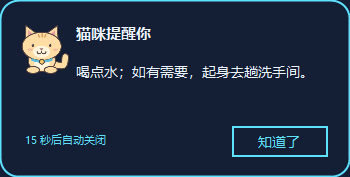
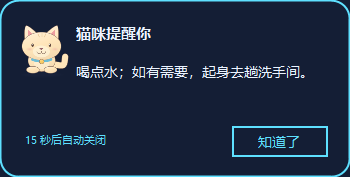
Refine desktop pets with soft shading, delicate outlines and material highlights

Changed region(s): [[0.0571, 0.1412, 0.2, 0.4237]]

diff --git a/src/DesktopPet.cs b/src/DesktopPet.cs
@@ -9,39 +9,67 @@ using System.Windows.Forms;
 public static class PetArt
 {
     public static readonly string[] Names = { "猫咪", "卡皮巴拉", "小兔子", "小机器人", "招财猫" };
+    private static Color Mix(Color color, Color target, float ratio)
+    {
+        return Color.FromArgb(color.A, (int)(color.R * (1 - ratio) + target.R * ratio), (int)(color.G * (1 - ratio) + target.G * ratio), (int)(color.B * (1 - ratio) + target.B * ratio));
+    }
     private static void Oval(Graphics g, Color fill, Pen outline, float x, float y, float w, float h)
     {
-        using (SolidBrush brush = new SolidBrush(fill)) g.FillEllipse(brush, x, y, w, h);
-        if (outline != null) g.DrawEllipse(outline, x, y, w, h);
+        if (outline == null) { using (SolidBrush brush = new SolidBrush(fill)) g.FillEllipse(brush, x, y, w, h); return; }
+        using (LinearGradientBrush material = new LinearGradientBrush(new RectangleF(x, y, w, h), fill, fill, 75f))
+        {
+            material.InterpolationColors = new ColorBlend { Colors = new[] { Mix(fill, Color.White, .4f), fill, Mix(fill, Color.FromArgb(130, 105, 88), .12f) }, Positions = new[] { 0f, .48f, 1f } };
+            g.FillEllipse(material, x, y, w, h);
+        }
+        g.DrawEllipse(outline, x, y, w, h);
+        using (Pen light = new Pen(Color.FromArgb(130, Color.White), 1.1f)) if (w > 20 && h > 18) g.DrawArc(light, x + 2, y + 2, w - 4, h - 4, 205, 105);
+    }
+    private static void Cheek(Graphics g, float x, float y)
+    {
+        using (GraphicsPath shape = new GraphicsPath())
+        {
+            shape.AddEllipse(x, y, 22, 12);
+            using (PathGradientBrush glow = new PathGradientBrush(shape))
+            { glow.CenterColor = Color.FromArgb(100, 238, 141, 158); glow.SurroundColors = new[] { Color.FromArgb(0, 238, 141, 158) }; g.FillPath(glow, shape); }
+        }
     }
     public static Bitmap Render(int kind, int theme, int frame, bool walking, bool speaking)
     {
         Bitmap bitmap = new Bitmap(200, 190, PixelFormat.Format32bppPArgb);
         using (Graphics g = Graphics.FromImage(bitmap))
-        using (Pen outline = new Pen(Color.FromArgb(83, 66, 65), 3) { LineJoin = LineJoin.Round, StartCap = LineCap.Round, EndCap = LineCap.Round })
+        using (Pen outline = new Pen(Color.FromArgb(220, 141, 112, 96), 1.7f) { LineJoin = LineJoin.Round, StartCap = LineCap.Round, EndCap = LineCap.Round })
         {
-            g.SmoothingMode = SmoothingMode.AntiAlias; g.Clear(Color.Transparent);
-            Color accent = theme == 0 ? Color.FromArgb(92, 187, 220) : Color.FromArgb(223, 138, 180);
+            g.SmoothingMode = SmoothingMode.AntiAlias; g.PixelOffsetMode = PixelOffsetMode.HighQuality; g.CompositingQuality = CompositingQuality.HighQuality; g.Clear(Color.Transparent);
+            Color accent = theme == 0 ? Color.FromArgb(108, 189, 213) : Color.FromArgb(226, 153, 187);
             bool blink = frame % 68 >= 63 && frame % 68 <= 65;
             float bob = (float)Math.Sin(frame * .14) * 2, step = walking ? (float)Math.Sin(frame * .75) * 4 : 0;
-            Oval(g, Color.FromArgb(28, 35, 38, 57), null, 47, 169, 110, 12);
+            Oval(g, Color.FromArgb(5, 72, 67, 86), null, 40, 168, 126, 17);
+            Oval(g, Color.FromArgb(8, 72, 67, 86), null, 46, 170, 114, 13);
+            Oval(g, Color.FromArgb(12, 72, 67, 86), null, 56, 172, 94, 8);
             g.TranslateTransform(0, bob);
             if (kind == 3)
             {
-                outline.Color = Color.FromArgb(35, 62, 92);
-                using (Pen antenna = new Pen(accent, 4)) g.DrawLine(antenna, 100, 24, 100, 43);
+                outline.Color = Color.FromArgb(220, 111, 151, 177);
+                using (Pen antenna = new Pen(accent, 3)) g.DrawLine(antenna, 100, 24, 100, 43);
                 Oval(g, accent, outline, 94, 17, 12, 12);
                 using (GraphicsPath body = Widget.Rounded(new Rectangle(64, 112, 73, 52), 15))
-                using (LinearGradientBrush metal = new LinearGradientBrush(new Rectangle(64, 112, 73, 52), Color.FromArgb(219, 238, 250), Color.FromArgb(132, 164, 198), 65f)) { g.FillPath(metal, body); g.DrawPath(outline, body); }
-                Oval(g, Color.FromArgb(130, 169, 199), outline, 58, 154 + step, 32, 17);
-                Oval(g, Color.FromArgb(130, 169, 199), outline, 111, 154 - step, 32, 17);
-                Oval(g, Color.FromArgb(176, 205, 224), outline, 44, 121 - step, 20, 34);
-                Oval(g, Color.FromArgb(176, 205, 224), outline, 138, 121 + step, 20, 34);
+                using (LinearGradientBrush metal = new LinearGradientBrush(new Rectangle(64, 112, 73, 52), Color.FromArgb(243, 252, 255), Color.FromArgb(166, 199, 222), 65f)) { g.FillPath(metal, body); g.DrawPath(outline, body); }
+                Oval(g, Color.FromArgb(167, 196, 215), outline, 58, 154 + step, 32, 17);
+                Oval(g, Color.FromArgb(167, 196, 215), outline, 111, 154 - step, 32, 17);
+                Oval(g, Color.FromArgb(195, 219, 232), outline, 44, 121 - step, 20, 34);
+                Oval(g, Color.FromArgb(195, 219, 232), outline, 138, 121 + step, 20, 34);
                 using (GraphicsPath head = Widget.Rounded(new Rectangle(42, 43, 116, 79), 23))
-                using (LinearGradientBrush metal = new LinearGradientBrush(new Rectangle(42, 43, 116, 79), Color.FromArgb(237, 249, 255), Color.FromArgb(163, 192, 218), 60f)) { g.FillPath(metal, head); g.DrawPath(outline, head); }
+                using (LinearGradientBrush metal = new LinearGradientBrush(new Rectangle(42, 43, 116, 79), Color.White, Color.FromArgb(185, 213, 232), 65f)) { g.FillPath(metal, head); g.DrawPath(outline, head); }
                 using (GraphicsPath screen = Widget.Rounded(new Rectangle(53, 56, 94, 52), 14))
-                using (SolidBrush dark = new SolidBrush(Color.FromArgb(20, 37, 61))) g.FillPath(dark, screen);
-                using (Pen light = new Pen(accent, 5) { StartCap = LineCap.Round, EndCap = LineCap.Round })
+                using (LinearGradientBrush dark = new LinearGradientBrush(new Rectangle(53, 56, 94, 52), Color.FromArgb(35, 63, 83), Color.FromArgb(16, 34, 56), 70f))
+                {
+                    g.FillPath(dark, screen);
+                    using (Pen rim = new Pen(Color.FromArgb(130, accent), 1)) g.DrawPath(rim, screen);
+                    GraphicsState glass = g.Save(); g.SetClip(screen);
+                    using (SolidBrush reflection = new SolidBrush(Color.FromArgb(22, Color.White))) g.FillEllipse(reflection, 48, 42, 107, 32);
+                    g.Restore(glass);
+                }
+                using (Pen light = new Pen(accent, 3.5f) { StartCap = LineCap.Round, EndCap = LineCap.Round })
                 {
                     if (blink) { g.DrawLine(light, 69, 78, 80, 78); g.DrawLine(light, 119, 78, 130, 78); }
                     else { g.DrawArc(light, 68, 69, 13, 17, 200, 140); g.DrawArc(light, 119, 69, 13, 17, 200, 140); }
@@ -49,36 +77,39 @@ public static class PetArt
                 }
                 Oval(g, accent, outline, 88, 128, 24, 24);
                 using (Pen power = new Pen(Color.White, 2)) { g.DrawArc(power, 94, 134, 12, 12, -50, 280); g.DrawLine(power, 100, 132, 100, 139); }
+                using (Pen seams = new Pen(Color.FromArgb(95, accent), 1)) { g.DrawLine(seams, 74, 157, 88, 157); g.DrawLine(seams, 113, 157, 127, 157); }
+                Oval(g, Color.FromArgb(220, Color.White), null, 77, 134, 3, 3); Oval(g, accent, null, 122, 134, 3, 3);
             }
             else
             {
-                Color fur = kind == 0 ? Color.FromArgb(255, 221, 164) : kind == 1 ? Color.FromArgb(192, 142, 98) : Color.FromArgb(255, 245, 238);
+                Color fur = kind == 0 ? Color.FromArgb(255, 229, 185) : kind == 1 ? Color.FromArgb(201, 163, 126) : Color.FromArgb(255, 249, 242);
                 Color pale = kind == 1 ? Color.FromArgb(222, 177, 127) : Color.FromArgb(255, 245, 220);
                 if (kind == 0 || kind == 4)
                 {
-                    using (Pen tail = new Pen(outline.Color, 22) { StartCap = LineCap.Round, EndCap = LineCap.Round })
-                    using (Pen inner = new Pen(fur, 16) { StartCap = LineCap.Round, EndCap = LineCap.Round })
+                    using (Pen tail = new Pen(outline.Color, 20) { StartCap = LineCap.Round, EndCap = LineCap.Round })
+                    using (Pen inner = new Pen(fur, 17) { StartCap = LineCap.Round, EndCap = LineCap.Round })
                     {
                         PointF[] points = { new PointF(137, 146), new PointF(164, 148), new PointF(170, 124 + (float)Math.Sin(frame * .18) * 5) };
                         g.DrawCurve(tail, points); g.DrawCurve(inner, points);
                     }
                 }
                 Oval(g, fur, outline, 61, 103, 80, 64);
-                Oval(g, pale, null, 78, 122, 46, 39);
+                Oval(g, Color.FromArgb(145, pale), null, 78, 122, 46, 39);
                 Oval(g, fur, outline, 56, 152 + step, 38, 20);
                 Oval(g, fur, outline, 108, 152 - step, 38, 20);
                 if (kind == 4)
                 {
                     GraphicsState paw = g.Save();
-                    g.TranslateTransform(158, 126); g.RotateTransform((float)Math.Sin(frame * .18) * 9); g.TranslateTransform(-158, -126);
+                    g.TranslateTransform(158, 126); g.RotateTransform((float)Math.Sin(frame * .12) * 8); g.TranslateTransform(-158, -126);
                     Oval(g, fur, outline, 143, 91, 28, 49); Oval(g, fur, outline, 147, 67, 31, 34);
-                    using (Pen fingers = new Pen(Color.FromArgb(211, 129, 127), 2)) { g.DrawLine(fingers, 156, 74, 156, 82); g.DrawLine(fingers, 163, 72, 163, 81); g.DrawLine(fingers, 170, 75, 170, 83); }
+                    using (Pen fingers = new Pen(Color.FromArgb(209, 151, 150), 1.1f)) { g.DrawLine(fingers, 156, 74, 156, 82); g.DrawLine(fingers, 163, 72, 163, 81); g.DrawLine(fingers, 170, 75, 170, 83); }
+                    Oval(g, Color.FromArgb(245, 201, 201), null, 156, 86, 10, 7);
                     g.Restore(paw);
                 }
                 if (kind == 2)
                 {
                     Oval(g, fur, outline, 58, 8, 29, 78); Oval(g, fur, outline, 111, 5, 29, 80);
-                    Oval(g, Color.FromArgb(249, 187, 200), null, 66, 19, 13, 51); Oval(g, Color.FromArgb(249, 187, 200), null, 119, 16, 13, 53);
+                    Oval(g, Color.FromArgb(230, 249, 201, 211), null, 66, 19, 13, 51); Oval(g, Color.FromArgb(230, 249, 201, 211), null, 119, 16, 13, 53);
                 }
                 else if (kind == 1)
                 {
@@ -87,40 +118,47 @@ public static class PetArt
                 }
                 else
                 {
-                    PointF[] left = { new PointF(52, 81), new PointF(54, 32), new PointF(89, 58) };
-                    PointF[] right = { new PointF(111, 58), new PointF(147, 32), new PointF(149, 82) };
-                    using (SolidBrush brush = new SolidBrush(fur)) { g.FillPolygon(brush, left); g.FillPolygon(brush, right); }
-                    g.DrawPolygon(outline, left); g.DrawPolygon(outline, right);
+                    using (GraphicsPath left = new GraphicsPath())
+                    using (GraphicsPath right = new GraphicsPath())
+                    using (LinearGradientBrush brush = new LinearGradientBrush(new Rectangle(50, 30, 100, 54), Mix(fur, Color.White, .4f), fur, 80f))
+                    {
+                        left.AddBezier(52, 81, 50, 64, 49, 39, 55, 33); left.AddBezier(55, 33, 60, 31, 82, 49, 89, 58); left.CloseFigure();
+                        right.AddBezier(111, 58, 121, 48, 141, 31, 147, 33); right.AddBezier(147, 33, 151, 39, 151, 64, 149, 82); right.CloseFigure();
+                        g.FillPath(brush, left); g.FillPath(brush, right); g.DrawPath(outline, left); g.DrawPath(outline, right);
+                    }
                     using (SolidBrush pink = new SolidBrush(Color.FromArgb(238, 158, 160)))
                     { g.FillPolygon(pink, new Point[] { new Point(60, 64), new Point(61, 45), new Point(77, 60) }); g.FillPolygon(pink, new Point[] { new Point(124, 60), new Point(140, 45), new Point(141, 65) }); }
                 }
+                Oval(g, Color.FromArgb(20, 111, 80, 60), null, 69, 116, 65, 20);
                 Oval(g, fur, outline, kind == 1 ? 45 : 43, 52, kind == 1 ? 113 : 115, 82);
                 if (kind == 1)
                 {
                     Oval(g, pale, outline, 62, 92, 93, 42);
-                    Oval(g, outline.Color, null, 111, 99, 16, 10);
-                    using (Pen nose = new Pen(outline.Color, 2)) { g.DrawLine(nose, 119, 110, 119, speaking ? 122 : 117); g.DrawArc(nose, 106, 112, 26, 10, 0, 180); }
+                    Oval(g, Color.FromArgb(119, 86, 71), null, 111, 99, 16, 9);
+                    using (Pen nose = new Pen(Color.FromArgb(164, 115, 86, 74), 1.3f)) { g.DrawLine(nose, 119, 109, 119, speaking ? 121 : 117); g.DrawArc(nose, 106, 112, 26, 10, 0, 180); }
                 }
                 else
                 {
-                    Oval(g, pale, null, 75, 91, 50, 35);
+                    Oval(g, Color.FromArgb(180, pale), null, 75, 91, 50, 35);
                     using (SolidBrush nose = new SolidBrush(Color.FromArgb(153, 101, 108))) g.FillPolygon(nose, new Point[] { new Point(94, 99), new Point(106, 99), new Point(100, 105) });
                     g.DrawArc(outline, 87, 102, 13, speaking ? 13 : 9, 0, 180); g.DrawArc(outline, 100, 102, 13, speaking ? 13 : 9, 0, 180);
                 }
                 int eyeY = kind == 1 ? 87 : 85;
                 if (blink) { g.DrawLine(outline, 69, eyeY + 3, 79, eyeY + 3); g.DrawLine(outline, 121, eyeY + 3, 131, eyeY + 3); }
-                else { Oval(g, outline.Color, null, 71, eyeY, 7, 10); Oval(g, outline.Color, null, 122, eyeY, 7, 10); Oval(g, Color.White, null, 72, eyeY, 2, 3); Oval(g, Color.White, null, 123, eyeY, 2, 3); }
-                Oval(g, Color.FromArgb(105, 241, 139, 154), null, 59, 99, 15, 7); Oval(g, Color.FromArgb(105, 241, 139, 154), null, 133, 99, 15, 7);
+                else { Oval(g, Color.FromArgb(102, 77, 65), null, 70.5f, eyeY, 7.5f, 10); Oval(g, Color.FromArgb(102, 77, 65), null, 121.5f, eyeY, 7.5f, 10); Oval(g, Color.White, null, 72, eyeY + 1, 2.3f, 3); Oval(g, Color.White, null, 123, eyeY + 1, 2.3f, 3); }
+                Cheek(g, 54, 96); Cheek(g, 129, 96);
                 using (Pen collar = new Pen(kind == 4 ? Color.FromArgb(218, 70, 78) : accent, 7)) g.DrawArc(collar, 67, 113, 68, 24, 10, 160);
                 if (kind == 4)
                 {
                     Oval(g, Color.FromArgb(255, 207, 81), outline, 80, 132, 43, 39);
-                    using (Pen gold = new Pen(Color.FromArgb(222, 153, 42), 2)) g.DrawEllipse(gold, 85, 136, 33, 30);
-                    using (Font fortune = new Font("Microsoft YaHei UI", 15, FontStyle.Bold)) TextRenderer.DrawText(g, "福", fortune, new Rectangle(80, 132, 43, 39), Color.FromArgb(154, 80, 34), TextFormatFlags.HorizontalCenter | TextFormatFlags.VerticalCenter);
+                    using (Pen gold = new Pen(Color.FromArgb(216, 166, 72), 1.1f)) g.DrawEllipse(gold, 85, 136, 33, 30);
+                    using (Font fortune = new Font("Microsoft YaHei UI", 13.5f, FontStyle.Bold))
+                    using (SolidBrush ink = new SolidBrush(Color.FromArgb(157, 108, 47)))
+                    using (StringFormat centered = new StringFormat { Alignment = StringAlignment.Center, LineAlignment = StringAlignment.Center }) g.DrawString("福", fortune, ink, new RectangleF(80, 132, 43, 39), centered);
                 }
                 else Oval(g, Color.FromArgb(250, 205, 101), outline, 94, 131, 14, 14);
                 if (kind == 1) { Oval(g, Color.FromArgb(255, 170, 75), outline, 83, 34, 35, 25); using (Pen leaf = new Pen(Color.FromArgb(91, 143, 85), 4)) g.DrawLine(leaf, 101, 33, 112, 27); }
-                if (kind == 0) using (Pen stripes = new Pen(Color.FromArgb(216, 158, 92), 4)) { g.DrawLine(stripes, 90, 57, 94, 67); g.DrawLine(stripes, 102, 55, 102, 67); g.DrawLine(stripes, 113, 57, 109, 67); }
+                if (kind == 0) using (Pen stripes = new Pen(Color.FromArgb(150, 220, 176, 115), 2.5f) { StartCap = LineCap.Round, EndCap = LineCap.Round }) { g.DrawLine(stripes, 90, 57, 94, 66); g.DrawLine(stripes, 102, 55, 102, 66); g.DrawLine(stripes, 113, 57, 109, 66); }
             }
         }
         return bitmap;

diff --git a/README.md b/README.md
@@ -12,7 +12,7 @@ Windows 桌宠与可配置详情面板，显示当天上班进度、剩余有效
 
 ## 功能
 
-- 猫咪、卡皮巴拉、小兔子、小机器人、招财猫五种桌宠，自带眨眼、呼吸起伏及可选散步动画，支持拖动和位置保存；招财猫还会举爪招手。
+- 猫咪、卡皮巴拉、小兔子、小机器人、招财猫五种桌宠，自带眨眼、呼吸起伏及可选散步动画，支持拖动和位置保存；招财猫还会举爪招手。角色采用细描边、渐变高光和轻阴影的柔和2.5D风格。
 - 点击桌宠展开或收起详情。五个详情组件可勾选显隐、拖动排序并记住配置，内容较多时可滚动查看。
 - 提醒由桌宠旁的语言框显示；说话时暂停散步，保持语言框与角色相邻。
 - 自定义月薪、上下班时间和午休时间。
